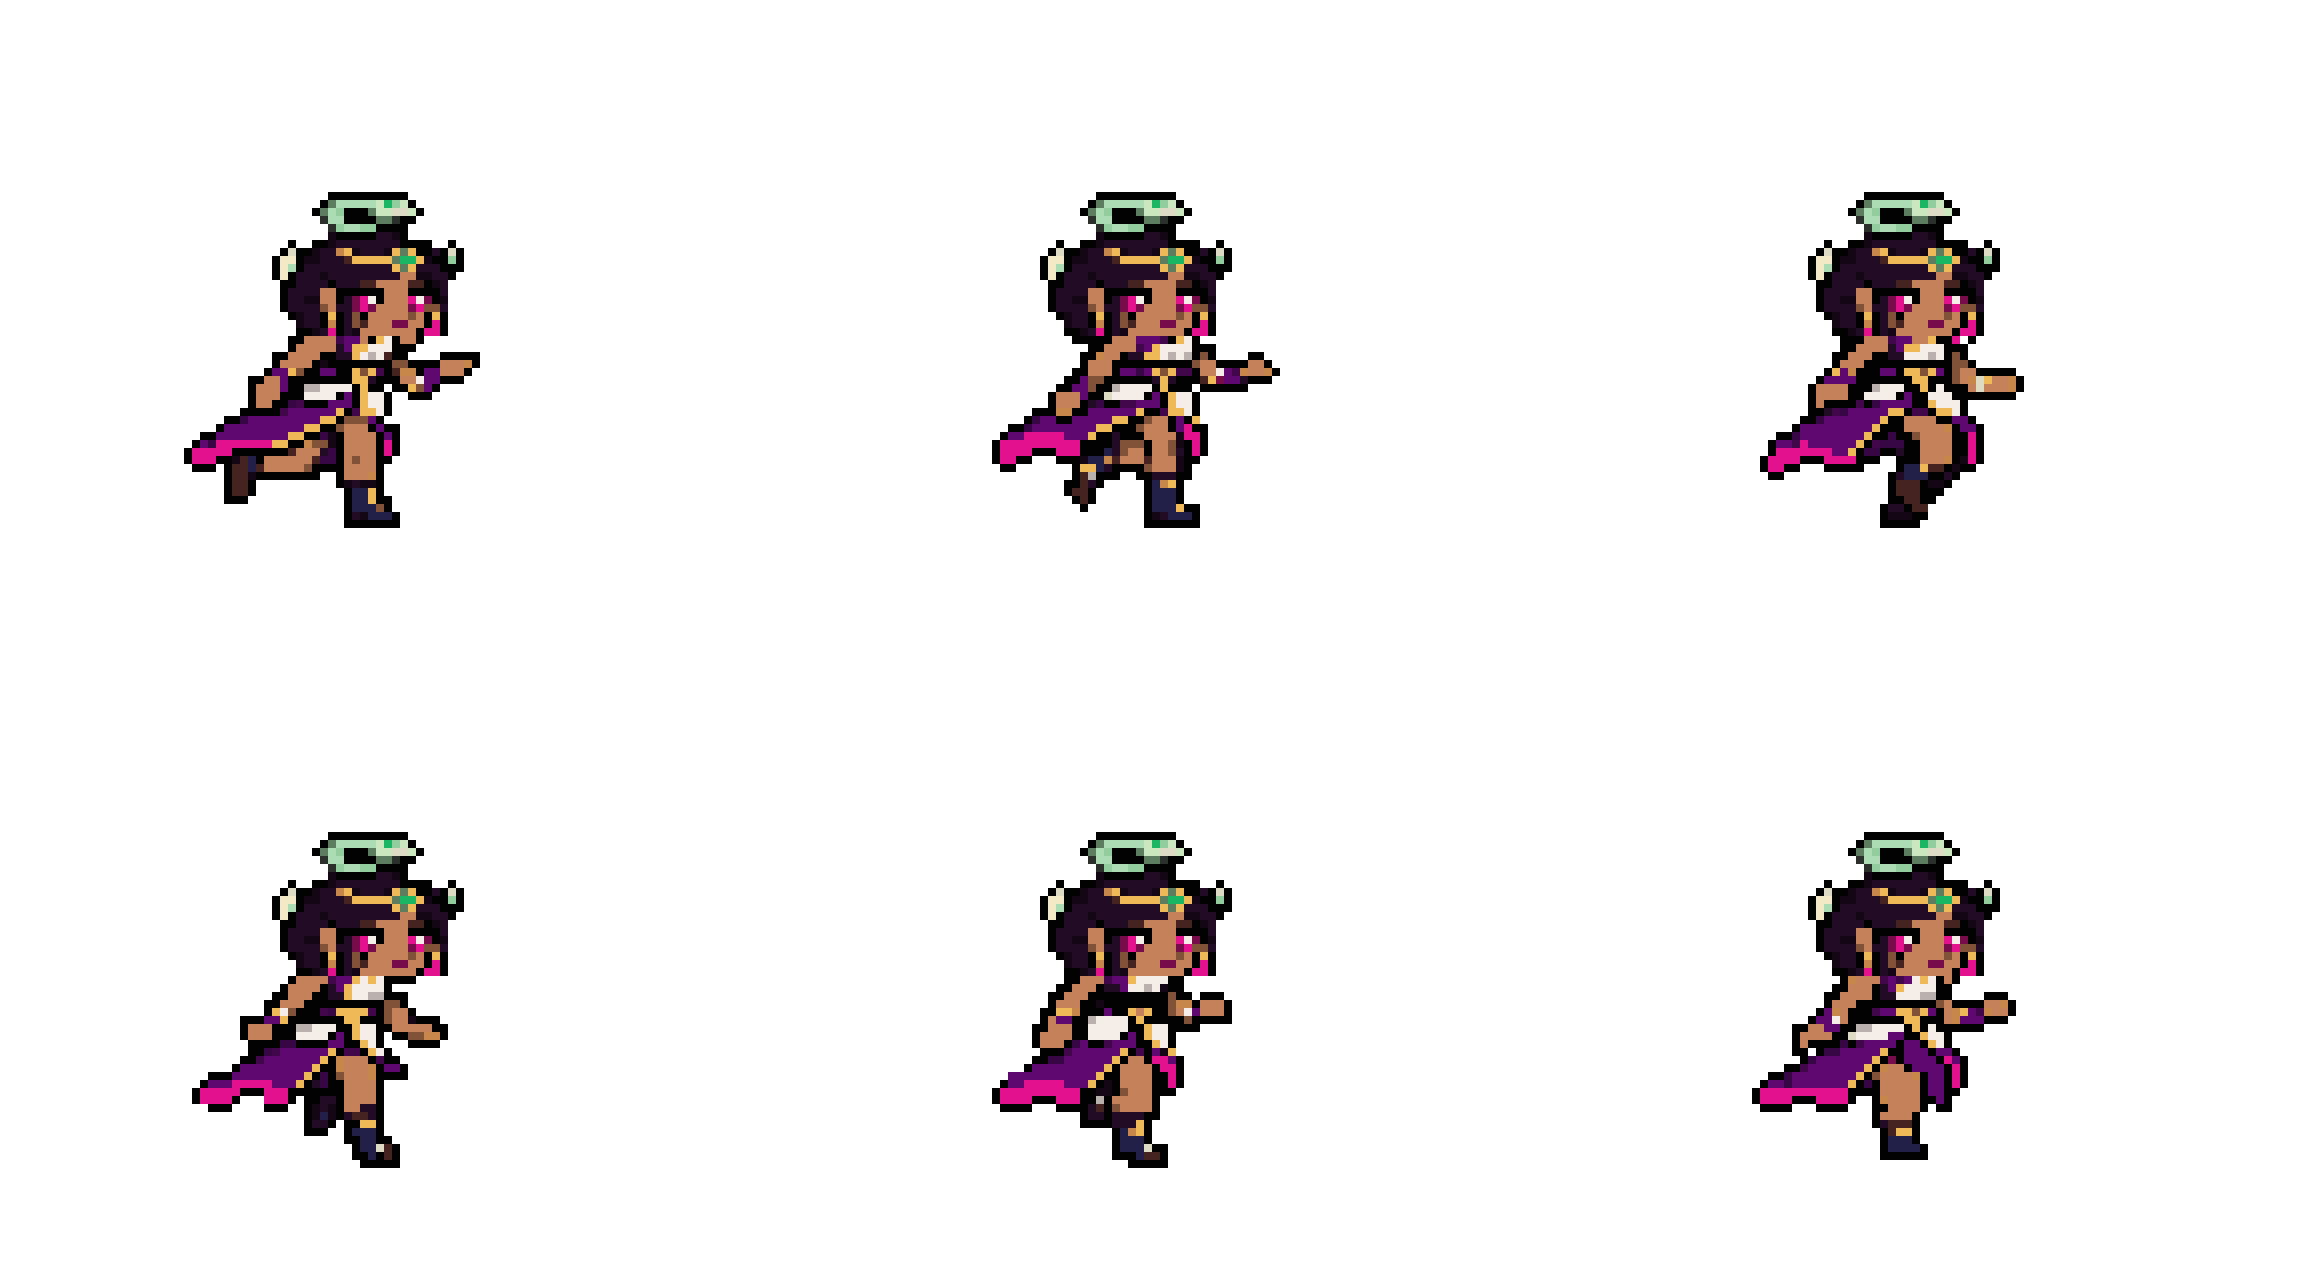
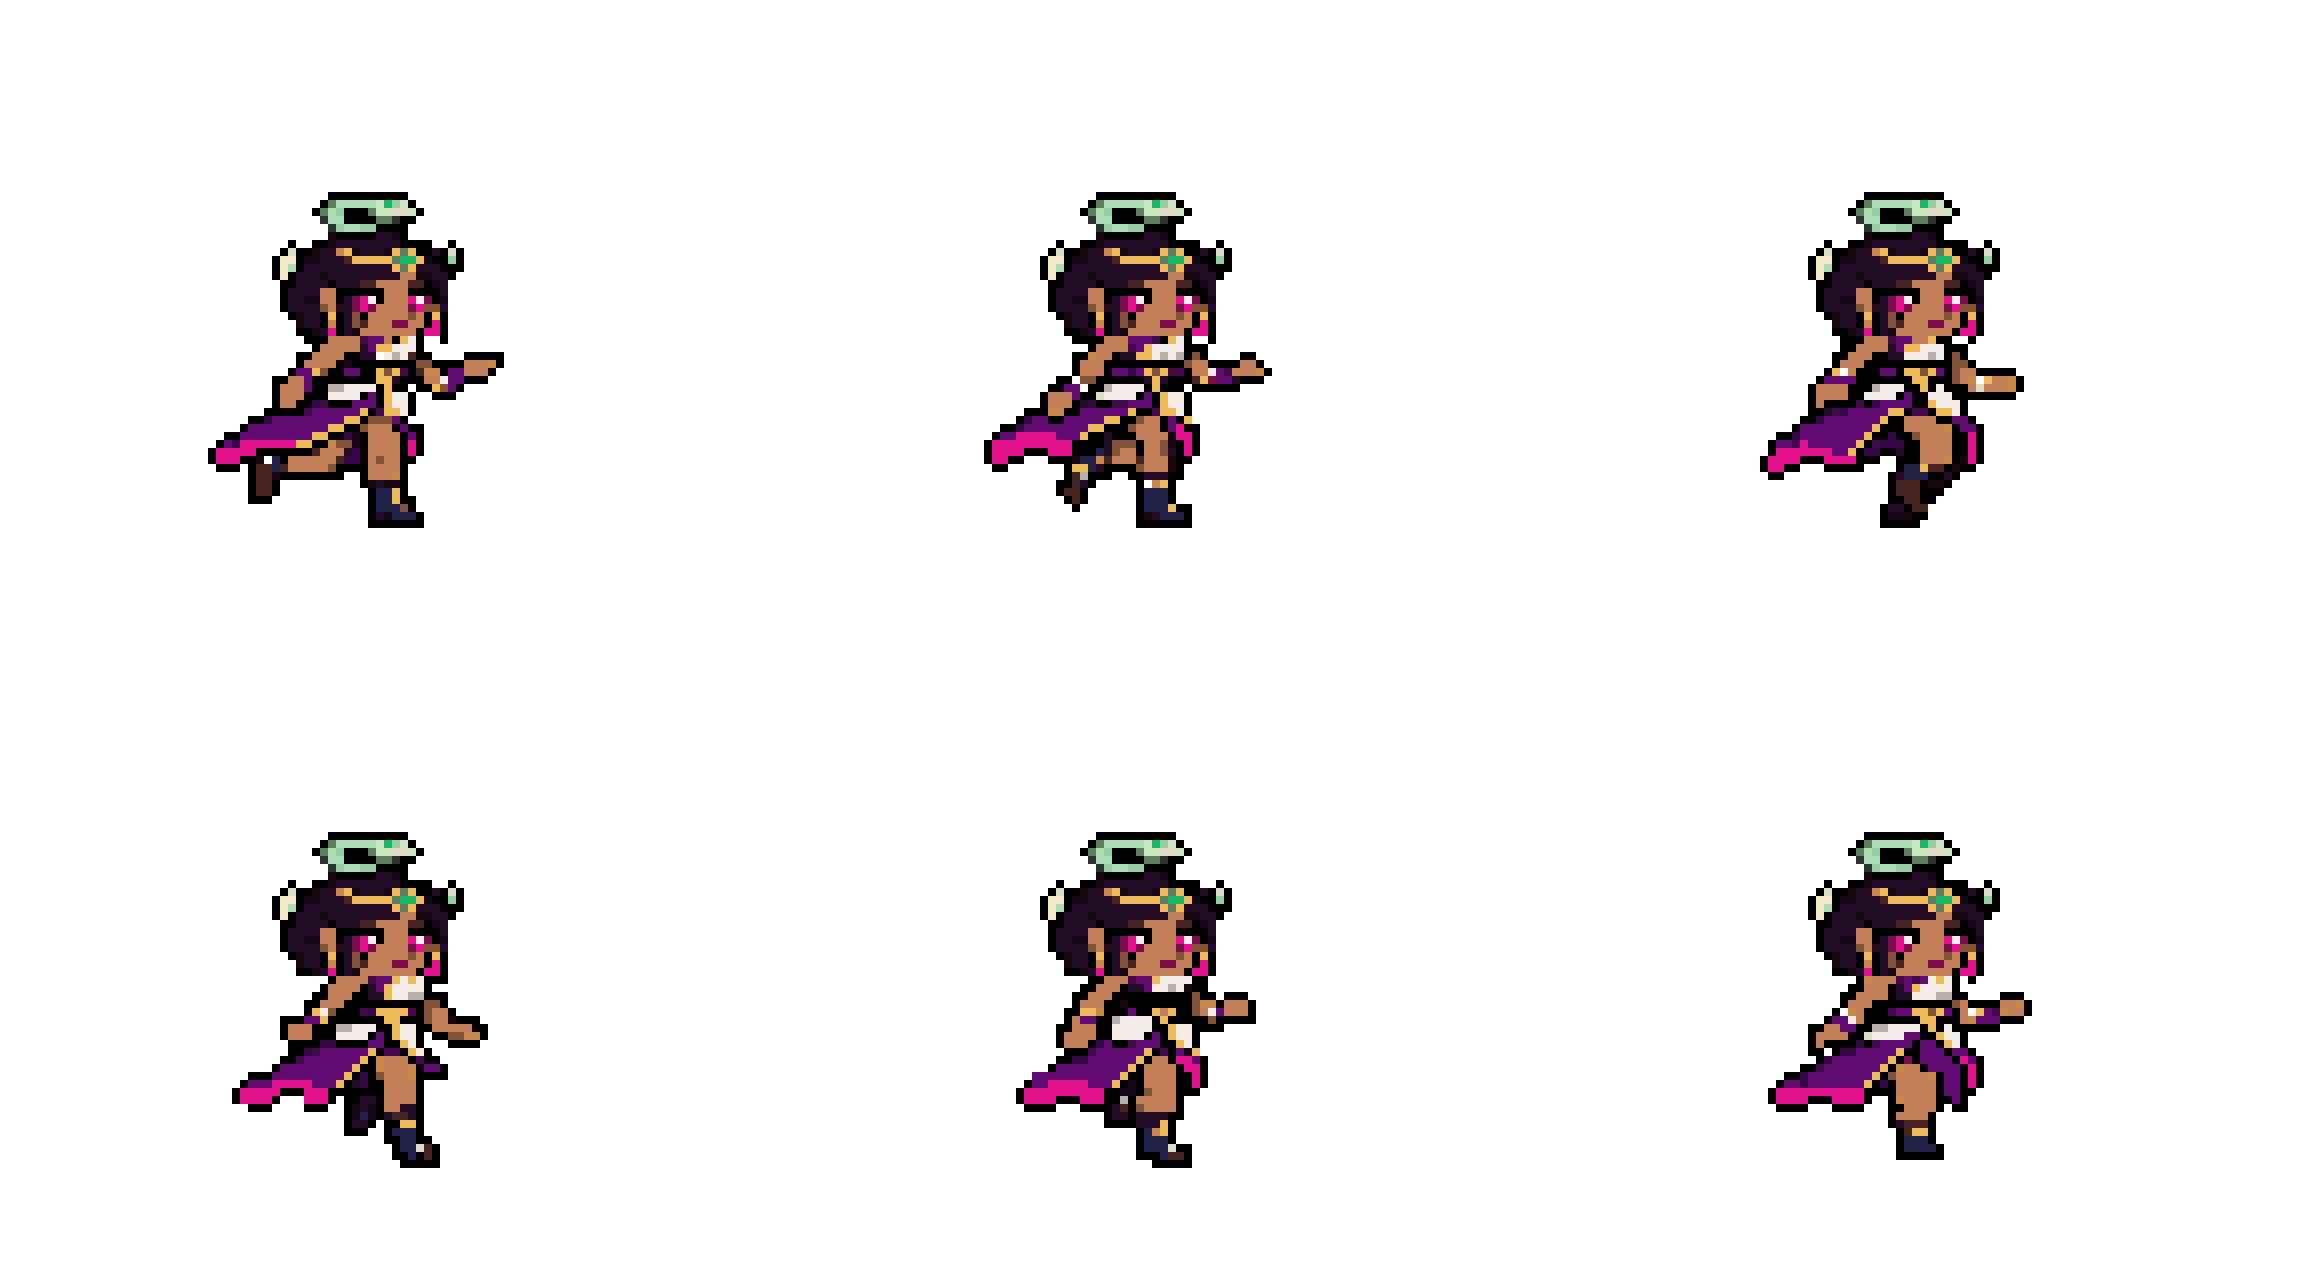
league_karma: the run's body centred under the head (the user: 头和身体协调吗)
Codex pasted the head at one place and drew the run's body swaying 3.5-4.6 columns off it; every frame's body is now
moved whole so its wrap sits under the head as in the design (the planted boot as steady as before).

diff --git a/tools/art/rig_karma.py b/tools/art/rig_karma.py
@@ -333,37 +333,57 @@ def find_head(c, old, hm):
     raise SystemExit("the old head is not in a Codex run frame")
 
 
+WHITE = ("w", "W", "x")                            # the wrap: the torso's front, the body's own centre
+HEAD_BOTTOM = 75                                   # the design's head ends here; the run's body starts under it
+
+
 def run_frames(P):
+    """Codex's run with its body centred under the design's head: Codex pasted the old head at one place and drew the
+    body swaying 3.5-4.6 columns off it (the wrap's centre 60.9-66.6 against the design's 65.5) - the user: 「头和身体协
+    调吗」. So every frame's body (everything under row HEAD_BOTTOM: torso, arms, skirt, legs) is moved whole so its wrap
+    sits where the design's does, and the design's head (RUN_HEAD: the ring, the bob with its sides, the face, the
+    head's prongs) is put back on top at the design's own place - the head keeps one column, as the run rule asks, and
+    the planted boot stays as steady as Codex drew it (63-67.5 before, 64.7-68 after)."""
     old = np.asarray(Image.open(K.lp(os.path.join(CODEX, "design", "karma_design_1x.png"))).convert("RGBA"))
     hm_old = head_mask(old)
-    hm = head_mask(old, RUN_HEAD) | head_mask(P.design, RUN_HEAD)
+    hm = head_mask(P.design, RUN_HEAD)
     jade = [np.array(L[k], np.uint8) for k in JADE]
+    white = [np.array(L[k], np.uint8) for k in WHITE]
+    dm = np.zeros((128, 128), bool)
+    for col in white:
+        dm |= (P.design[..., :3] == col).all(-1) & (P.design[..., 3] > 0)
+    dm[:HEAD_BOTTOM + 1] = False
+    dm[87:] = False
+    centre = np.nonzero(dm)[1].mean()
     out = []
     for k in range(6):
         f = np.asarray(Image.open(K.lp(os.path.join(CODEX, "native", f"karma_run_{k + 1:02d}.png"))).convert("RGBA"))
         c = np.zeros_like(P.design)
         K.put(c, f, PIVOT[0] - RUN_PIVOT[0], PIVOT[1] - RUN_PIVOT[1])
         oy, ox = find_head(c, old, hm_old)
-        before = c.copy()
-        # Codex's own ring / prong / tattoo squares outside the head go (the design's prongs come back below)
-        head_here = np.zeros((128, 128), bool)
-        ys, xs = np.nonzero(hm)
-        head_here[ys + oy, xs + ox] = True
-        for col in jade:
-            hit = (c[..., :3] == col).all(-1) & (c[..., 3] > 0) & ~head_here
-            c[hit] = 0
-        for y, x in zip(ys, xs):
-            c[y + oy, x + ox] = P.design[y, x]
-        # the waist's prongs are left out of the run, as Codex drew it: the pumping arms pass where they float, and
-        # partly hidden they read as specks (one frame here, one there - a blink)
-        # the squares the tattoo left: the leg's skin round them
-        for y, x in zip(*np.nonzero((before[..., 3] > 0) & (c[..., 3] == 0) & ~head_here)):
-            if y >= 86 + oy:
-                nb = [tuple(int(v) for v in c[y + a_, x + b_]) for a_, b_ in N4 if c[y + a_, x + b_, 3]]
+        assert (oy, ox) == (0, 0), (k, oy, ox)        # Codex pasted the head where the design has it
+        body = c.copy()
+        body[:HEAD_BOTTOM + 1] = 0
+        m = np.zeros((128, 128), bool)
+        for col in white:
+            m |= (body[..., :3] == col).all(-1) & (body[..., 3] > 0)
+        m[87:] = False
+        dx = int(round(centre - np.nonzero(m)[1].mean()))
+        body = K.shifted(body, dx, 0)
+        before = body.copy()
+        for col in jade:                               # Codex's prong bits and the leg's tattoo
+            body[(body[..., :3] == col).all(-1) & (body[..., 3] > 0)] = 0
+        for y, x in zip(*np.nonzero((before[..., 3] > 0) & (body[..., 3] == 0))):
+            if y >= 86:                                # the tattoo's squares: the leg's skin round them
+                nb = [tuple(int(v) for v in body[y + a_, x + b_]) for a_, b_ in N4 if body[y + a_, x + b_, 3]]
                 skin = [q for q in nb if q[:3] in (L["s"], L["S"], L["z"])]
                 if skin:
-                    c[y, x] = max(set(skin), key=skin.count)
-        out.append(drop_orphans(finish_near(c, before), np.zeros_like(c)))
+                    body[y, x] = max(set(skin), key=skin.count)
+        c = body
+        ys, xs = np.nonzero(hm)
+        c[ys, xs] = P.design[ys, xs]
+        ref = c.copy()
+        out.append(drop_orphans(finish_near(c, ref), np.zeros_like(c)))
     return out
 
 
